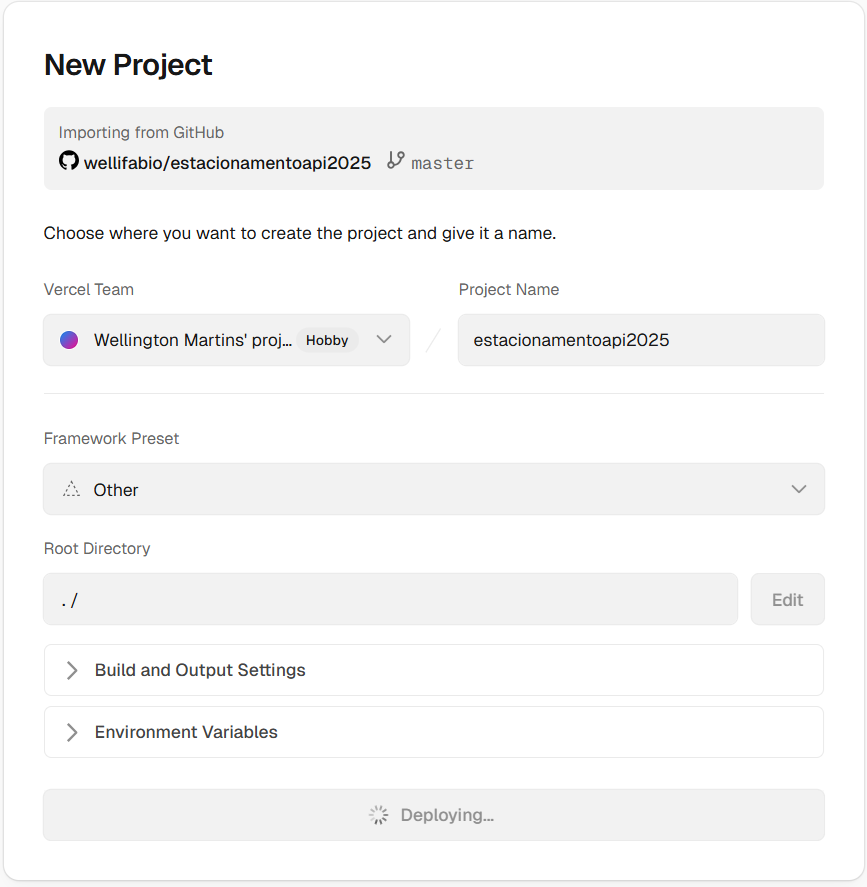
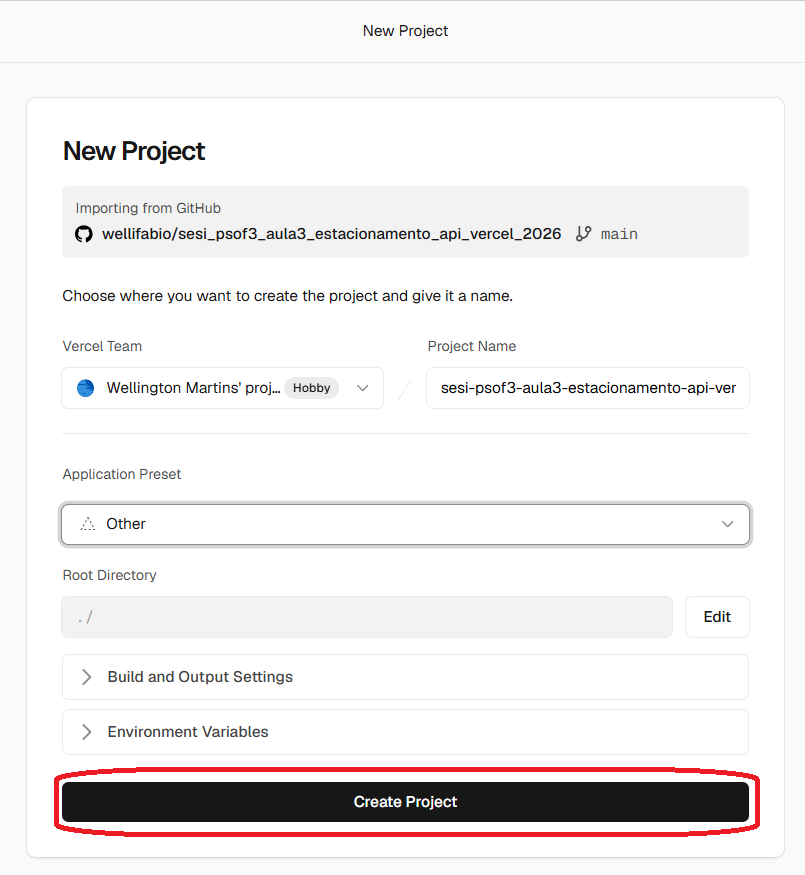
aula

diff --git a/ds/turmas/2DES_A/4º Semestre/05-psof3/aula03/README.md b/ds/turmas/2DES_A/4º Semestre/05-psof3/aula03/README.md
@@ -235,15 +235,19 @@ node_modules
 ### Criando o projeto na Vercel
 Após criar uma conta na Vercel, acesse e crie um novo projeto, **importando** o seu projeto do **github**.
 - ![Vercel tela 1](./screenshots/vercel1.png)
+- Copie e cole o nome do repositório, se ele não aparecer clique em `Configure GitHub App`
+- Busque seu repositorio no github
 - ![Vercel tela 2](./screenshots/vercel2.png)
 - ![Vercel tela 3](./screenshots/vercel3.png)
-- Seu projeto ainda não vai funcionar, para isso é necessário criar o serviço de banco de dados com Prisma e algumas configurações adicionais.
-
-## [Exemplo do estacionamento implantado](https://github.com/wellifabio/sesi_psof3_aula3_estacionamento_api_vercel_2026.git)
-
+- Clique em "Create Project"
+- ![Vercel tela 4](./screenshots/vercel4.png)
+- Clique em **Add** para adicionar o SGBD PostgreSQL e confirme até o fim
+- ![Vercel tela 5](./screenshots/vercel5.png)
+- ![Vercel tela 6](./screenshots/vercel6.png)
+- Clique em `Continue to Dashboard`
+- Se apresentar algum erro, verifique as configurações ou refaça o processo
 - Altere o `package.json` removendo p`"postinstall": "prisma generate"`:
 - Exemplo:
-```json
 ```json
 {
   "name": "backend",
@@ -263,13 +267,8 @@ Após criar uma conta na Vercel, acesse e crie um novo projeto, **importando** o
   }
 }
 ```
-```
-![Pastas02](./screenshots/pastas2.png)
-- Para **fazer deploy**, com o ambiente configurado corretamente, basta **fazer commit das alterações** e executar o comando:
-```bash
-vercel --prod
-```
 ## Pronto API Back-end implantado com sucesso
+## [Exemplo do estacionamento implantado](https://github.com/wellifabio/sesi_psof3_aula3_estacionamento_api_vercel_2026.git)
 
 ## Atividades
 Desenvolva uma UI front-end para consumir sua API implantada conforme wireframes e requisitos a seguir:

diff --git a/ds/turmas/2DES_B/4º Semestre/05-psof3/aula03/README.md b/ds/turmas/2DES_B/4º Semestre/05-psof3/aula03/README.md
@@ -235,15 +235,19 @@ node_modules
 ### Criando o projeto na Vercel
 Após criar uma conta na Vercel, acesse e crie um novo projeto, **importando** o seu projeto do **github**.
 - ![Vercel tela 1](./screenshots/vercel1.png)
+- Copie e cole o nome do repositório, se ele não aparecer clique em `Configure GitHub App`
+- Busque seu repositorio no github
 - ![Vercel tela 2](./screenshots/vercel2.png)
 - ![Vercel tela 3](./screenshots/vercel3.png)
-- Seu projeto ainda não vai funcionar, para isso é necessário criar o serviço de banco de dados com Prisma e algumas configurações adicionais.
-
-## [Exemplo do estacionamento implantado](https://github.com/wellifabio/sesi_psof3_aula3_estacionamento_api_vercel_2026.git)
-
+- Clique em "Create Project"
+- ![Vercel tela 4](./screenshots/vercel4.png)
+- Clique em **Add** para adicionar o SGBD PostgreSQL e confirme até o fim
+- ![Vercel tela 5](./screenshots/vercel5.png)
+- ![Vercel tela 6](./screenshots/vercel6.png)
+- Clique em `Continue to Dashboard`
+- Se apresentar algum erro, verifique as configurações ou refaça o processo
 - Altere o `package.json` removendo p`"postinstall": "prisma generate"`:
 - Exemplo:
-```json
 ```json
 {
   "name": "backend",
@@ -263,13 +267,8 @@ Após criar uma conta na Vercel, acesse e crie um novo projeto, **importando** o
   }
 }
 ```
-```
-![Pastas02](./screenshots/pastas2.png)
-- Para **fazer deploy**, com o ambiente configurado corretamente, basta **fazer commit das alterações** e executar o comando:
-```bash
-vercel --prod
-```
 ## Pronto API Back-end implantado com sucesso
+## [Exemplo do estacionamento implantado](https://github.com/wellifabio/sesi_psof3_aula3_estacionamento_api_vercel_2026.git)
 
 ## Atividades
 Desenvolva uma UI front-end para consumir sua API implantada conforme wireframes e requisitos a seguir:
